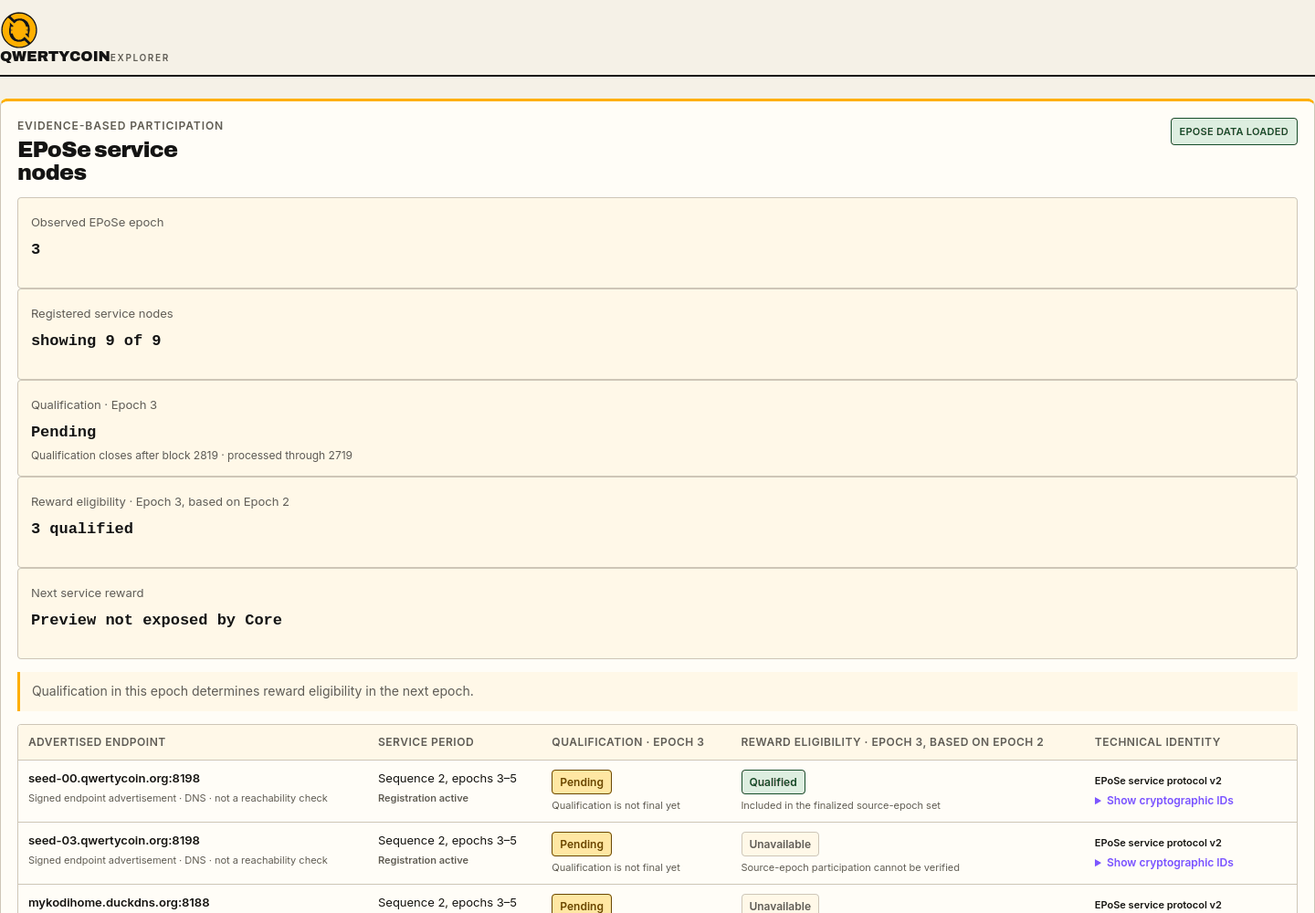
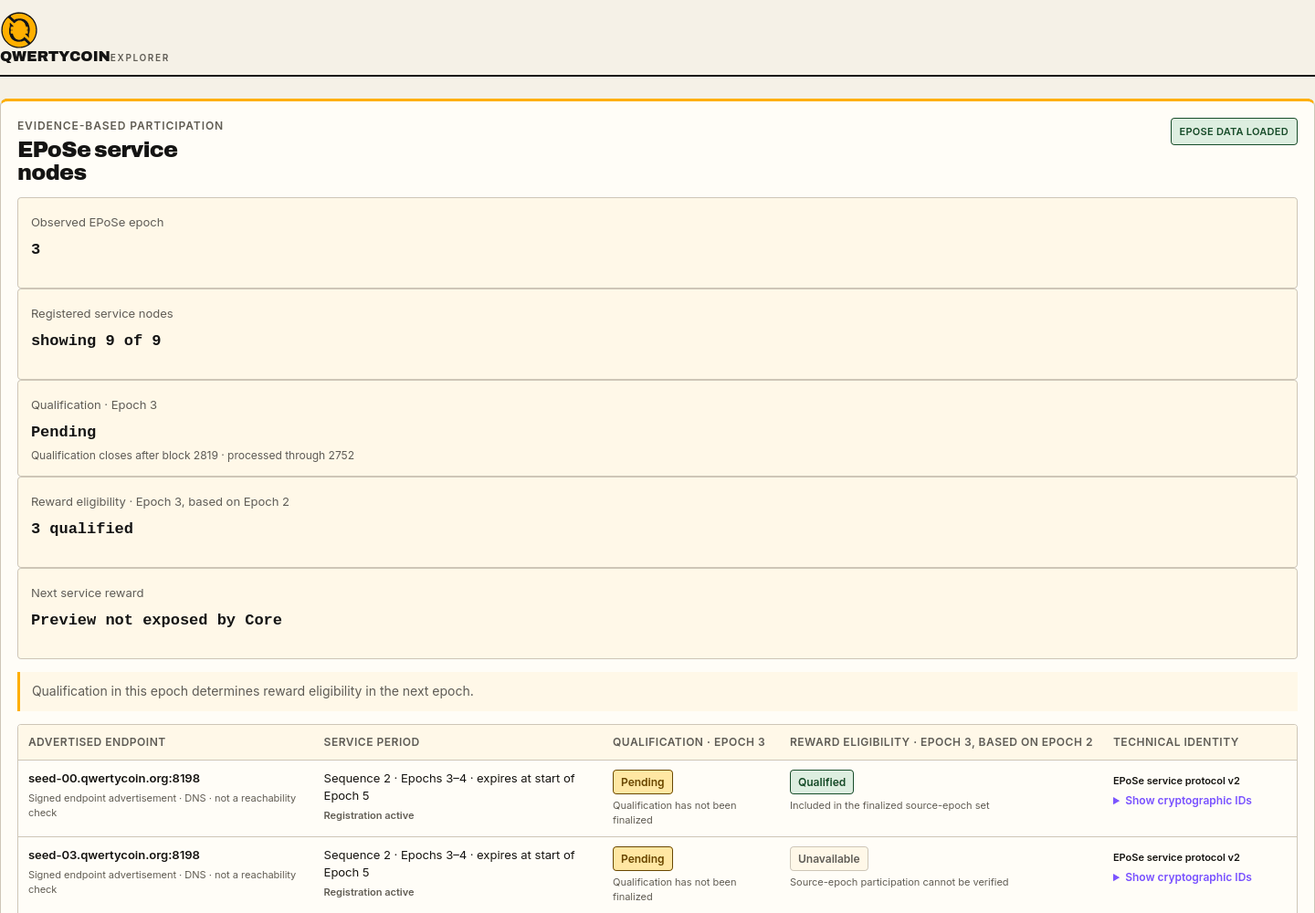
fix(explorer): reject incoherent EPoSe snapshots

Changed region(s): [[0.0, 0.806, 0.9375, 1.0]]

diff --git a/src/templates/index2.html b/src/templates/index2.html
@@ -87,8 +87,8 @@
             <caption class="sr-only">Current EPoSe service-node registrations, qualification, reward eligibility, and technical identity.</caption>
             <thead><tr>
                 <th scope="col"><span class="column-help" tabindex="0" title="Signed hostname or IP address and port from the endpoint descriptor validated by Core. This is an advertisement, not a reachability test." aria-label="Advertised endpoint. Signed hostname or IP address and port from the endpoint descriptor validated by Core. This is an advertisement, not a reachability test.">Advertised endpoint</span></th>
-                <th scope="col"><span class="column-help" tabindex="0" title="Descriptor sequence and the first through last epochs for which this service registration applies." aria-label="Service period. Descriptor sequence and the first through last epochs for which this service registration applies.">Service period</span></th>
-                <th scope="col"><span id="epose-qualification-column" class="column-help" tabindex="0" title="Qualification status for the observed epoch. Pending means participation is confirmed but qualification is not final." aria-label="Qualification. Qualification status for the observed epoch. Pending means participation is confirmed but qualification is not final.">Qualification</span></th>
+                <th scope="col"><span class="column-help" tabindex="0" title="Descriptor sequence, active epochs, and the exclusive expiry epoch. A registration expiring at the start of Epoch 5 is active through Epoch 4." aria-label="Service period. Descriptor sequence, active epochs, and the exclusive expiry epoch. A registration expiring at the start of Epoch 5 is active through Epoch 4.">Service period</span></th>
+                <th scope="col"><span id="epose-qualification-column" class="column-help" tabindex="0" title="Qualification status for the observed epoch. Pending means qualification has not been finalized." aria-label="Qualification. Qualification status for the observed epoch. Pending means qualification has not been finalized.">Qualification</span></th>
                 <th scope="col"><span id="epose-reward-column" class="column-help" tabindex="0" title="Reward eligibility in the payout epoch, based on the finalized qualification set from the prior source epoch." aria-label="Reward eligibility. Reward eligibility in the payout epoch, based on the finalized qualification set from the prior source epoch.">Reward eligibility</span></th>
                 <th scope="col"><span class="column-help" tabindex="0" title="EPoSe protocol and descriptor versions, the persistent node ID, and the epoch-specific service verification key. These identifiers have different lifetimes and purposes." aria-label="Technical identity. EPoSe protocol and descriptor versions, the persistent node ID, and the epoch-specific service verification key. These identifiers have different lifetimes and purposes.">Technical identity</span></th>
             </tr></thead>
@@ -271,7 +271,7 @@
             });
         }).finally(function () { clearTimeout(timeout); });
     }
-    function renderNodes(payload, info) {
+    function renderNodes(payload, info, snapshots) {
         var tbody = byId("epose-service-node-rows");
         if (!Array.isArray(payload.service_nodes)) throw new Error("Malformed service-node list");
         var nodes = payload.service_nodes;
@@ -286,11 +286,11 @@
             var endpoint = row.insertCell(); endpoint.dataset.label = "Advertised endpoint";
             var endpointName = document.createElement("strong"); endpointName.className = "epose-endpoint"; endpointName.textContent = advertised.availability === "current" ? advertised.authority : "Unavailable"; endpoint.appendChild(endpointName);
             var endpointSource = document.createElement("small"); endpointSource.textContent = advertised.availability === "current" ? "Signed endpoint advertisement · " + String(advertised.transport || "unknown").toUpperCase() + " · not a reachability check" : "Signed endpoint advertisement unavailable"; endpoint.appendChild(endpointSource);
-            var descriptor = row.insertCell(); descriptor.dataset.label = "Service period"; descriptor.textContent = "Sequence " + node.descriptor_sequence + ", epochs " + node.effective_epoch + "–" + node.expiry_epoch;
+            var descriptor = row.insertCell(); descriptor.dataset.label = "Service period"; descriptor.textContent = statusLogic.servicePeriod(node);
             var registration = document.createElement("small"); registration.className = "epose-registration"; registration.textContent = statusLogic.registration(node).label; descriptor.appendChild(registration);
-            var protocol = row.insertCell(); protocol.dataset.label = "Qualification · Epoch " + node.qualification_epoch; statusBadge(protocol, statusLogic.currentQualification(node, info));
+            var protocol = row.insertCell(); protocol.dataset.label = "Qualification · Epoch " + node.qualification_epoch; statusBadge(protocol, statusLogic.currentQualification(node, info, snapshots));
             var payoutEpoch = statusLogic.nonNegativeInteger(info && info.current_epoch);
-            var rewardSource = row.insertCell(); rewardSource.dataset.label = payoutEpoch === null ? "Reward eligibility · based on Epoch " + node.source_qualification_epoch : "Reward eligibility · Epoch " + payoutEpoch + ", based on Epoch " + node.source_qualification_epoch; statusBadge(rewardSource, statusLogic.rewardQualification(node));
+            var rewardSource = row.insertCell(); rewardSource.dataset.label = payoutEpoch === null ? "Reward eligibility · based on Epoch " + node.source_qualification_epoch : "Reward eligibility · Epoch " + payoutEpoch + ", based on Epoch " + node.source_qualification_epoch; statusBadge(rewardSource, statusLogic.rewardQualification(node, snapshots));
             var identity = row.insertCell(); identity.dataset.label = "Technical identity";
             var serviceVersion = Number(advertised.service_version); var descriptorVersion = Number(advertised.descriptor_version);
             var version = document.createElement("small"); version.className = "epose-identity-version"; version.textContent = Number.isSafeInteger(serviceVersion) && serviceVersion > 0 ? "EPoSe service protocol v" + serviceVersion : "Service protocol version unavailable"; identity.appendChild(version);
@@ -302,11 +302,18 @@
     }
     function refresh() { controllers = [];
     Promise.allSettled([request("/api/v1/epose"), request("/api/v1/epose/service-nodes"), request("/api/v1/epose/rewards")]).then(function (results) {
-        var hadFailure = results.some(function (result) { return result.status === "rejected"; });
-        delay = hadFailure ? Math.min(delay * 2, 120000) : 30000;
         var infoResult = results[0], nodesResult = results[1], rewardsResult = results[2];
-        text("epose-status", hadFailure ? "Partial EPoSe data" : "EPoSe data loaded"); var eposeStatus = byId("epose-status"); eposeStatus.classList.toggle("warning", hadFailure); eposeStatus.classList.toggle("ok", !hadFailure);
         var info = infoResult.status === "fulfilled" ? infoResult.value : null;
+        var nodes = nodesResult.status === "fulfilled" ? nodesResult.value : null;
+        var rewards = rewardsResult.status === "fulfilled" ? rewardsResult.value : null;
+        var snapshots = statusLogic.snapshotContext(info, nodes, rewards);
+        var hadFailure = results.some(function (result) { return result.status === "rejected"; });
+        var qualificationPhase = statusLogic.qualificationContext(info).phase;
+        var incoherent = !hadFailure && (snapshots.current !== true
+                || snapshots.rewards !== true
+                || (qualificationPhase === "closed" && snapshots.currentFinal !== true));
+        delay = hadFailure || incoherent ? Math.min(delay * 2, 120000) : 30000;
+        text("epose-status", hadFailure ? "Partial EPoSe data" : incoherent ? "EPoSe snapshot mismatch" : "EPoSe data loaded"); var eposeStatus = byId("epose-status"); eposeStatus.classList.toggle("warning", hadFailure || incoherent); eposeStatus.classList.toggle("ok", !hadFailure && !incoherent);
         if (infoResult.status === "fulfilled") {
             var qualification = statusLogic.qualificationContext(info);
             var currentEpoch = statusLogic.nonNegativeInteger(info.current_epoch);
@@ -315,7 +322,9 @@
             var epochEnd = statusLogic.nonNegativeInteger(info.epoch_end_height);
             var observerTip = statusLogic.nonNegativeInteger(info.observer_tip_height);
             text("epose-qualification-label", currentEpoch === null ? "Qualification" : "Qualification · Epoch " + currentEpoch);
-            if (qualification.phase === "pending") {
+            if (snapshots.current !== true || (qualification.phase === "closed" && snapshots.currentFinal !== true)) {
+                text("epose-qualified", "Unavailable"); text("epose-qualification-close", "Qualification snapshots are inconsistent");
+            } else if (qualification.phase === "pending") {
                 text("epose-qualified", "Pending");
                 text("epose-qualification-close", "Qualification closes after block " + qualification.closeHeight + " · processed through " + qualification.tipHeight);
             } else if (qualification.phase === "closed" && qualifiedCount !== null) {
@@ -339,7 +348,6 @@
             text("epose-protocol", "Unavailable"); text("epose-state-hash", "Unavailable");
         }
         if (nodesResult.status === "fulfilled") {
-            var nodes = nodesResult.value;
             var nodeEpoch = statusLogic.nonNegativeInteger(nodes.current_epoch);
             var returnedCount = statusLogic.nonNegativeInteger(nodes.returned_count);
             var totalCount = statusLogic.nonNegativeInteger(nodes.total_count);
@@ -347,19 +355,18 @@
             text("epose-node-count", returnedCount === null || totalCount === null ? "Unavailable" : "showing " + returnedCount + " of " + totalCount + (returnedCount < totalCount ? " (truncated)" : ""));
             var observed = Number(nodes.observed_at_unix);
             text("epose-observed-at", Number.isFinite(observed) && observed > 0 ? new Date(observed * 1000).toISOString() : "Unavailable");
-            try { renderNodes(nodes, info); } catch (error) { text("epose-node-count", "Unavailable"); var failedBody = byId("epose-service-node-rows"); failedBody.textContent = ""; var failedRow = failedBody.insertRow(); var failedCell = failedRow.insertCell(); failedCell.colSpan = 5; failedCell.textContent = error.message; delay = Math.min(delay * 2, 120000); }
+            try { renderNodes(nodes, info, snapshots); } catch (error) { text("epose-node-count", "Unavailable"); var failedBody = byId("epose-service-node-rows"); failedBody.textContent = ""; var failedRow = failedBody.insertRow(); var failedCell = failedRow.insertCell(); failedCell.colSpan = 5; failedCell.textContent = error.message; delay = Math.min(delay * 2, 120000); }
         } else {
             text("epose-epoch", "Unavailable"); text("epose-node-count", "Unavailable"); text("epose-observed-at", "Unavailable");
             var tbody = byId("epose-service-node-rows"); tbody.textContent = ""; var row = tbody.insertRow(); var cell = row.insertCell(); cell.colSpan = 5; cell.textContent = nodesResult.reason.message;
         }
         if (rewardsResult.status === "fulfilled") {
-            var rewards = rewardsResult.value;
             var payoutEpoch = statusLogic.nonNegativeInteger(info && info.current_epoch);
             var sourceEpoch = statusLogic.nonNegativeInteger(rewards.epoch);
             var rewardQualifiedCount = statusLogic.nonNegativeInteger(rewards.qualified_count);
             text("epose-reward-label", sourceEpoch === null ? "Reward eligibility" : payoutEpoch === null ? "Reward eligibility · based on Epoch " + sourceEpoch : "Reward eligibility · Epoch " + payoutEpoch + ", based on Epoch " + sourceEpoch);
             text("epose-reward-column", sourceEpoch === null ? "Reward eligibility" : payoutEpoch === null ? "Reward eligibility · based on Epoch " + sourceEpoch : "Reward eligibility · Epoch " + payoutEpoch + ", based on Epoch " + sourceEpoch);
-            text("epose-reward-qualified", sourceEpoch === null || rewardQualifiedCount === null ? "Unavailable" : rewardQualifiedCount + " qualified");
+            text("epose-reward-qualified", snapshots.rewards !== true || sourceEpoch === null || rewardQualifiedCount === null ? "Unavailable" : rewardQualifiedCount + " qualified");
             text("epose-reward-preview", rewards.preview_available === true ? "Available" : "Preview not exposed by Core");
         } else {
             text("epose-reward-label", "Reward eligibility"); text("epose-reward-qualified", "Unavailable");

diff --git a/tests/epose_status.test.js b/tests/epose_status.test.js
@@ -9,12 +9,14 @@ function info(overrides = {}) {
         current_epoch: 3,
         epoch_end_height: 2879,
         observer_tip_height: 2719,
+        observed_at_unix: 100,
         qualification_availability: "current"
     }, overrides);
 }
 
 function node(overrides = {}) {
     return Object.assign({
+        descriptor_sequence: 0,
         effective_epoch: 2,
         expiry_epoch: 5,
         protocol_active: true,
@@ -26,6 +28,36 @@ function node(overrides = {}) {
         qualified_for_source_epoch: false
     }, overrides);
 }
+
+function nodes(overrides = {}) {
+    return Object.assign({
+        current_epoch: 3,
+        source_epoch: 2,
+        observed_at_unix: 101
+    }, overrides);
+}
+
+function rewards(overrides = {}) {
+    return Object.assign({
+        height: 2720,
+        epoch: 2,
+        observed_at_unix: 101
+    }, overrides);
+}
+
+const coherent = status.snapshotContext(
+    info({observed_at_unix: 100}), nodes(), rewards());
+assert.deepEqual(coherent, {
+    current: true, currentFinal: true, rewards: true,
+    currentEpoch: 3, sourceEpoch: 2
+});
+assert.deepEqual(status.snapshotContext(info(), nodes(), null), {
+    current: true, currentFinal: true, rewards: false,
+    currentEpoch: 3, sourceEpoch: null
+});
+assert.equal(status.snapshotContext(
+    info({observed_at_unix: 101}), nodes({observed_at_unix: 102}),
+    rewards({observed_at_unix: 100})).rewards, true);
 
 assert.deepEqual(status.qualificationContext(info()), {
     phase: "pending", closeHeight: 2819, tipHeight: 2719
@@ -39,25 +71,83 @@ assert.equal(status.nonNegativeInteger(undefined), null);
 assert.equal(status.nonNegativeInteger(""), null);
 assert.equal(status.nonNegativeInteger(0), 0);
 
-assert.equal(status.currentQualification(node(), info()).label, "Pending");
-assert.equal(status.currentQualification(node({qualified_for_current_epoch: true}), info()).label, "Qualified");
-assert.equal(status.currentQualification(node(), info({observer_tip_height: 2819})).label, "Not qualified");
-assert.equal(status.currentQualification(node({protocol_active: false}), info()).label, "Not participating");
-assert.equal(status.currentQualification(node({qualified_for_current_epoch: null}), info()).label, "Unavailable");
-assert.equal(status.currentQualification(node({qualification_epoch: 2}), info()).label, "Unavailable");
+assert.equal(status.currentQualification(node(), info(), coherent).label, "Pending");
+assert.equal(status.currentQualification(node({qualified_for_current_epoch: true}), info(), coherent).label, "Qualified");
+const closedInfo = info({observer_tip_height: 2819});
+const coherentAtClose = status.snapshotContext(
+    closedInfo, nodes(), rewards({height: 2820}));
+assert.equal(status.currentQualification(node(), closedInfo, coherentAtClose).label, "Not qualified");
+assert.equal(status.currentQualification(node({protocol_active: false}), info(), coherent).label, "Not participating");
+assert.equal(status.currentQualification(node({qualified_for_current_epoch: null}), info(), coherent).label, "Unavailable");
+assert.equal(status.currentQualification(node({qualification_epoch: 2}), info(), coherent).label, "Unavailable");
 
 const epochFour = info({current_epoch: 4, epoch_end_height: 3599, observer_tip_height: 2880});
-assert.equal(status.currentQualification(node({qualification_epoch: 4}), epochFour).label, "Pending");
-assert.equal(status.currentQualification(node(), epochFour).label, "Unavailable");
+const coherentEpochFour = status.snapshotContext(
+    epochFour, nodes({current_epoch: 4, source_epoch: 3}),
+    rewards({height: 2881, epoch: 3}));
+assert.equal(status.currentQualification(node({qualification_epoch: 4}), epochFour, coherentEpochFour).label, "Pending");
+assert.equal(status.currentQualification(node(), epochFour, coherentEpochFour).label, "Unavailable");
 
-assert.equal(status.rewardQualification(node({qualified_for_source_epoch: true})).label, "Qualified");
-assert.equal(status.rewardQualification(node()).label, "Not qualified");
-assert.equal(status.rewardQualification(node({effective_epoch: 3})).label, "Unavailable");
-assert.equal(status.rewardQualification(node({source_qualification_availability: "unavailable"})).label, "Unavailable");
-assert.equal(status.rewardQualification(node({qualified_for_source_epoch: null})).label, "Unavailable");
+assert.equal(status.rewardQualification(node({qualified_for_source_epoch: true}), coherent).label, "Qualified");
+assert.equal(status.rewardQualification(node(), coherent).label, "Not qualified");
+assert.equal(status.rewardQualification(node({effective_epoch: 3}), coherent).label, "Unavailable");
+assert.equal(status.rewardQualification(node({source_qualification_availability: "unavailable"}), coherent).label, "Unavailable");
+assert.equal(status.rewardQualification(node({qualified_for_source_epoch: null}), coherent).label, "Unavailable");
+assert.equal(status.rewardQualification(node({source_qualification_epoch: 1}), coherent).label, "Unavailable");
 
 assert.equal(status.registration(node()).label, "Registration active");
 assert.equal(status.registration(node({protocol_active: false})).label, "Registration inactive");
 assert.equal(status.registration(node({protocol_active: null})).label, "Registration unavailable");
+
+assert.equal(status.servicePeriod(node()), "Sequence 0 · Epochs 2–4 · expires at start of Epoch 5");
+assert.equal(status.servicePeriod(node({effective_epoch: 3, expiry_epoch: 4})), "Sequence 0 · Epoch 3 · expires at start of Epoch 4");
+assert.equal(status.servicePeriod(node({effective_epoch: 3, expiry_epoch: 3})), "Unavailable");
+
+const staleNodesAtClose = status.snapshotContext(
+    info({observer_tip_height: 2819, observed_at_unix: 102}),
+    nodes({observed_at_unix: 101}),
+    rewards({height: 2820, observed_at_unix: 102}));
+assert.deepEqual(staleNodesAtClose, {
+    current: true, currentFinal: false, rewards: true,
+    currentEpoch: 3, sourceEpoch: 2
+});
+assert.equal(status.currentQualification(
+    node(), info({observer_tip_height: 2819}), staleNodesAtClose).label, "Unavailable");
+const olderNodesWhileOpen = status.snapshotContext(
+    info({observer_tip_height: 2818, observed_at_unix: 102}),
+    nodes({observed_at_unix: 101}),
+    rewards({height: 2819, observed_at_unix: 102}));
+assert.equal(status.currentQualification(
+    node(), info({observer_tip_height: 2818}), olderNodesWhileOpen).label, "Pending");
+
+assert.deepEqual(status.snapshotContext(
+    info({observed_at_unix: 100}), nodes(), rewards({height: 2721})),
+    {current: true, currentFinal: true, rewards: false,
+        currentEpoch: 3, sourceEpoch: null});
+assert.deepEqual(status.snapshotContext(
+    info({observed_at_unix: 100}), nodes({current_epoch: 2}), rewards()),
+    {current: false, currentFinal: false, rewards: false,
+        currentEpoch: null, sourceEpoch: null});
+assert.deepEqual(status.snapshotContext(
+    info({observed_at_unix: 100}), nodes(), rewards({epoch: 1})),
+    {current: true, currentFinal: true, rewards: false,
+        currentEpoch: 3, sourceEpoch: null});
+assert.deepEqual(status.snapshotContext(
+    info({current_epoch: 4, observer_tip_height: 2880, observed_at_unix: 100}),
+    nodes({current_epoch: 4, source_epoch: 2}),
+    rewards({height: 2881, epoch: 2})),
+    {current: true, currentFinal: true, rewards: false,
+        currentEpoch: 4, sourceEpoch: null});
+
+const sameSecondAtClose = status.snapshotContext(
+    closedInfo, nodes({observed_at_unix: 100}),
+    rewards({height: 2820, observed_at_unix: 100}));
+assert.equal(sameSecondAtClose.current, true);
+assert.equal(sameSecondAtClose.currentFinal, false);
+assert.equal(status.currentQualification(
+    node(), closedInfo, sameSecondAtClose).label, "Unavailable");
+assert.equal(status.currentQualification(node(), info(), {
+    current: true, currentFinal: false, currentEpoch: 3
+}).detail, "Qualification has not been finalized");
 
 console.log("EPoSe presentation-state tests passed");

diff --git a/src/templates/assets/epose-status.js b/src/templates/assets/epose-status.js
@@ -31,6 +31,44 @@
         return {key: key, label: labels[key], detail: detail || ""};
     }
 
+    function snapshotContext(info, nodes, rewards) {
+        var unavailable = {
+            current: false, currentFinal: false, rewards: false,
+            currentEpoch: null, sourceEpoch: null
+        };
+        if (!info || !nodes) return unavailable;
+
+        var currentEpoch = integer(info.current_epoch);
+        var nodesEpoch = integer(nodes.current_epoch);
+        var sourceEpoch = integer(nodes.source_epoch);
+        var tipHeight = integer(info.observer_tip_height);
+        var infoObserved = integer(info.observed_at_unix);
+        var nodesObserved = integer(nodes.observed_at_unix);
+        if (currentEpoch === null || nodesEpoch === null || tipHeight === null
+                || infoObserved === null || nodesObserved === null
+                || nodesEpoch !== currentEpoch) {
+            return unavailable;
+        }
+
+        var rewardsEpoch = integer(rewards && rewards.epoch);
+        var rewardHeight = integer(rewards && rewards.height);
+        var rewardsObserved = integer(rewards && rewards.observed_at_unix);
+        var rewardSnapshotsMatch = sourceEpoch !== null && rewardsEpoch !== null
+                && rewardHeight !== null && rewardsObserved !== null
+                && tipHeight < Number.MAX_SAFE_INTEGER
+                && rewardHeight === tipHeight + 1
+                && rewardsEpoch < Number.MAX_SAFE_INTEGER
+                && sourceEpoch === rewardsEpoch
+                && rewardsEpoch + 1 === currentEpoch;
+        return {
+            current: true,
+            currentFinal: nodesObserved > infoObserved,
+            rewards: rewardSnapshotsMatch,
+            currentEpoch: currentEpoch,
+            sourceEpoch: rewardSnapshotsMatch ? sourceEpoch : null
+        };
+    }
+
     function qualificationContext(info) {
         if (!info || info.qualification_availability !== "current") {
             return {phase: "unavailable", closeHeight: null, tipHeight: null};
@@ -51,11 +89,15 @@
         };
     }
 
-    function currentQualification(node, info) {
+    function currentQualification(node, info, snapshots) {
         if (!node) return result("unavailable");
+        if (!snapshots || snapshots.current !== true) {
+            return result("unavailable", "Qualification snapshots are inconsistent");
+        }
         var currentEpoch = integer(info && info.current_epoch);
         var qualificationEpoch = integer(node.qualification_epoch);
         if (currentEpoch === null || qualificationEpoch === null
+                || snapshots.currentEpoch !== currentEpoch
                 || currentEpoch !== qualificationEpoch
                 || node.qualification_availability !== "current") {
             return result("unavailable");
@@ -72,20 +114,28 @@
         }
         var context = qualificationContext(info);
         if (context.phase === "pending") {
-            return result("pending", "Qualification is not final yet");
+            return result("pending", "Qualification has not been finalized");
         }
         if (context.phase === "closed") {
+            if (snapshots.currentFinal !== true) {
+                return result("unavailable", "Final node status cannot be matched to the closing snapshot");
+            }
             return result("not_qualified", "Final qualification did not include this node");
         }
         return result("unavailable");
     }
 
-    function rewardQualification(node) {
+    function rewardQualification(node, snapshots) {
+        if (!snapshots || snapshots.rewards !== true) {
+            return result("unavailable", "Reward snapshots do not share a coherent epoch");
+        }
         if (!node || node.source_qualification_availability !== "finalized") {
             return result("unavailable");
         }
         var sourceEpoch = integer(node.source_qualification_epoch);
-        if (sourceEpoch === null) return result("unavailable");
+        if (sourceEpoch === null || snapshots.sourceEpoch !== sourceEpoch) {
+            return result("unavailable");
+        }
         if (node.qualified_for_source_epoch === true) {
             return result("qualified", "Included in the finalized source-epoch set");
         }
@@ -109,12 +159,31 @@
         return {label: "Registration unavailable", active: null};
     }
 
+    function servicePeriod(node) {
+        if (!node) return "Unavailable";
+        var sequence = integer(node.descriptor_sequence);
+        var effectiveEpoch = integer(node.effective_epoch);
+        var expiryEpoch = integer(node.expiry_epoch);
+        if (sequence === null || effectiveEpoch === null || expiryEpoch === null
+                || expiryEpoch <= effectiveEpoch) {
+            return "Unavailable";
+        }
+        var lastActiveEpoch = expiryEpoch - 1;
+        var activeRange = effectiveEpoch === lastActiveEpoch
+                ? "Epoch " + effectiveEpoch
+                : "Epochs " + effectiveEpoch + "–" + lastActiveEpoch;
+        return "Sequence " + sequence + " · " + activeRange
+                + " · expires at start of Epoch " + expiryEpoch;
+    }
+
     return Object.freeze({
         protocolParameters: PROTOCOL_PARAMETERS,
         nonNegativeInteger: integer,
+        snapshotContext: snapshotContext,
         qualificationContext: qualificationContext,
         currentQualification: currentQualification,
         rewardQualification: rewardQualification,
-        registration: registration
+        registration: registration,
+        servicePeriod: servicePeriod
     });
 }));
